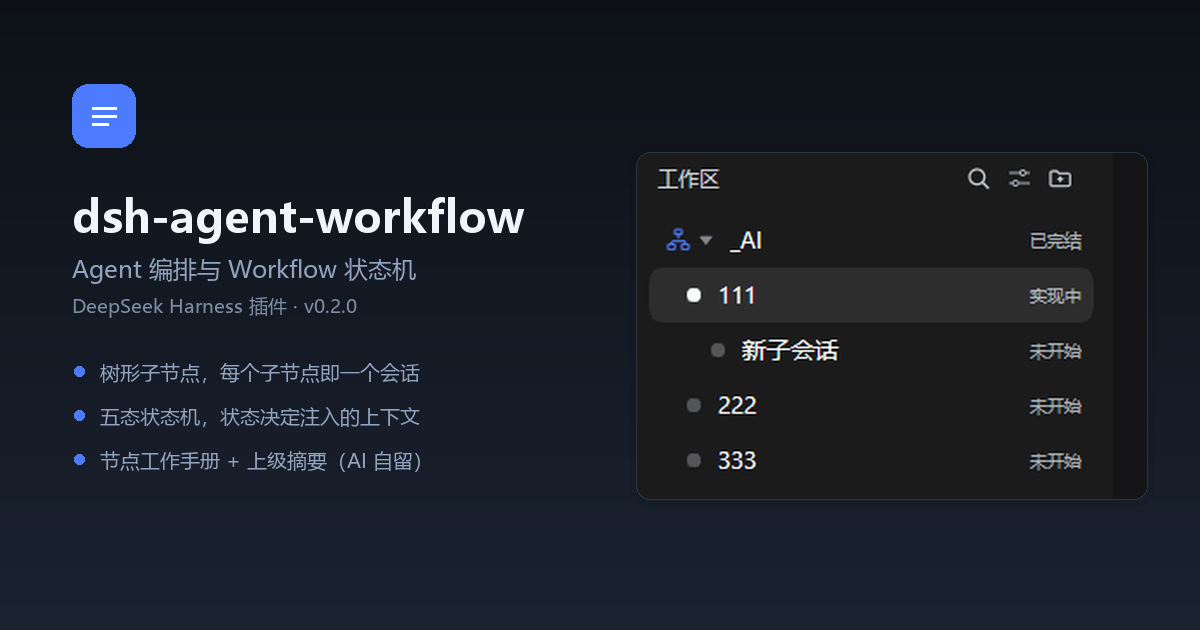
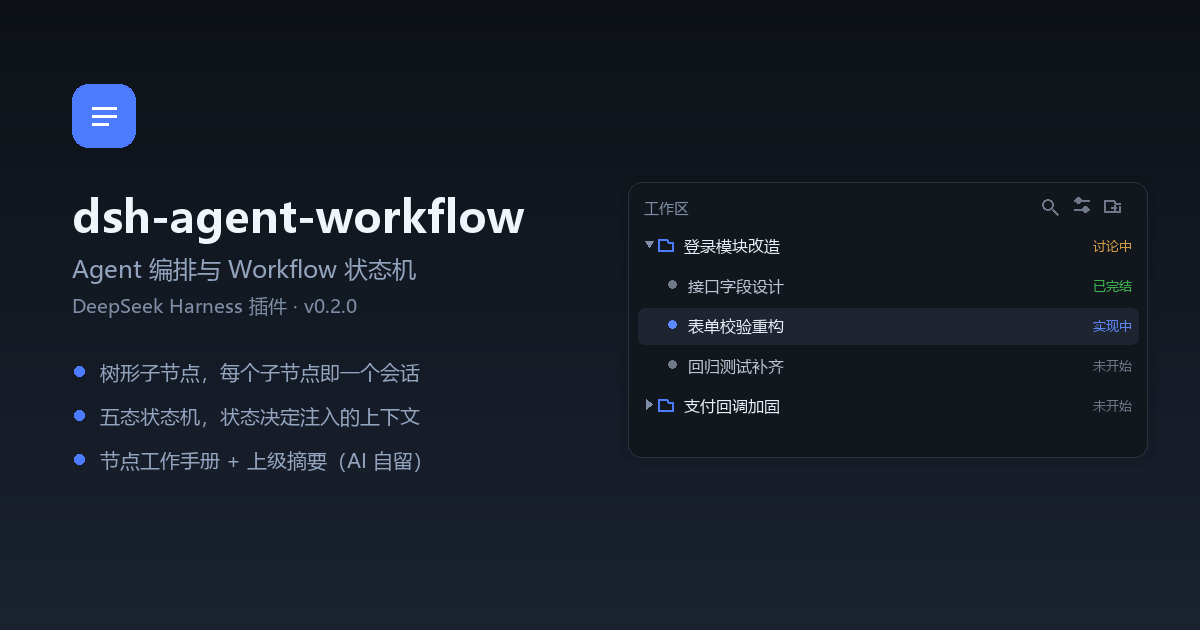
docs: 封面改用绘制的示例树（真实项目结构，不贴个人界面截图）
make-cover.py 改为用 Pillow 画侧栏树：登录模块改造/接口字段设计/表单校验重构/回归测试补齐/支付回调加固，状态与配色对齐 NODE_STATE_COLOR；避免暴露个人工作区名

diff --git a/scripts/make-cover.py b/scripts/make-cover.py
@@ -1,4 +1,7 @@
-"""生成插件封面：左侧标题+卖点，右侧嵌入真实界面截图（侧栏工作区树）。"""
+"""生成插件封面：左侧标题+卖点，右侧绘制一块与插件一致的侧栏树（不贴真实截图）。
+
+改文案/改树结构后直接重跑本脚本即可覆盖 assets/cover.png。
+"""
 
 from PIL import Image, ImageDraw, ImageFont
 
@@ -10,10 +13,23 @@ TEXT_PRIMARY = (240, 244, 251)
 TEXT_SECONDARY = (147, 164, 191)
 TEXT_MUTED = (127, 142, 166)
 
+# 面板配色（贴近插件实际界面）
+PANEL_BG = (18, 22, 29)
+PANEL_BORDER = (42, 49, 62)
+ROW_SELECTED = (30, 36, 48)
+ROW_TITLE = (232, 238, 247)
+ROW_CHILD_TITLE = (186, 196, 212)
+STATE_IDLE = (110, 120, 136)
+STATE_WARN = (214, 160, 72)
+STATE_BRAND = (95, 138, 255)
+STATE_SUCCESS = (63, 185, 80)
+
 FONT_REG = "C:/Windows/Fonts/msyh.ttc"
 FONT_BOLD = "C:/Windows/Fonts/msyhbd.ttc"
-SCREENSHOT = r"C:\Users\Administrator\.dsh\attachments\v1\objects\6f\6f135f23be41b03dfddc24814706bfddce9a4e30ab0a8bcf7c2bbb48f80dc01f"
 OUT = r"C:\Users\Administrator\Documents\deepseek-harness\default-workspace\dsh-agent-workflow\assets\cover.png"
+
+CARD_W, CARD_H = 520, 276
+CARD_X, CARD_Y = 628, 182
 
 
 def gradient_canvas():
@@ -21,21 +37,94 @@ def gradient_canvas():
     draw = ImageDraw.Draw(canvas)
     for y in range(H):
         t = y / (H - 1)
-        color = tuple(round(BG_TOP[i] + (BG_BOTTOM[i] - BG_TOP[i]) * t) for i in range(3))
-        draw.line([(0, y), (W, y)], fill=color)
+        draw.line([(0, y), (W, y)], fill=tuple(round(BG_TOP[i] + (BG_BOTTOM[i] - BG_TOP[i]) * t) for i in range(3)))
     return canvas
 
 
-def rounded_card(size, radius, fill, outline):
-    card = Image.new("RGBA", size, (0, 0, 0, 0))
-    draw = ImageDraw.Draw(card)
-    draw.rounded_rectangle([(0, 0), (size[0] - 1, size[1] - 1)], radius=radius, fill=fill, outline=outline, width=1)
-    return card
+def draw_search(d, x, y, color):
+    d.ellipse([(x, y), (x + 11, y + 11)], outline=color, width=2)
+    d.line([(x + 10, y + 10), (x + 15, y + 15)], fill=color, width=2)
+
+
+def draw_sliders(d, x, y, color):
+    for i, dy in enumerate((0, 9)):
+        d.line([(x, y + dy + 2), (x + 15, y + dy + 2)], fill=color, width=2)
+        cx = x + 4 if i == 0 else x + 11
+        d.ellipse([(cx - 3, y + dy - 1), (cx + 3, y + dy + 5)], fill=color)
+
+
+def draw_folder_plus(d, x, y, color):
+    d.line([(x, y + 3), (x + 9, y + 3), (x + 11, y + 6), (x + 16, y + 6)], fill=color, width=2)
+    d.line([(x, y + 3), (x, y + 14), (x + 16, y + 14), (x + 16, y + 9)], fill=color, width=2)
+    d.line([(x + 10, y + 8), (x + 10, y + 13)], fill=color, width=2)
+    d.line([(x + 7.5, y + 10.5), (x + 12.5, y + 10.5)], fill=color, width=2)
+
+
+def draw_tree_panel(canvas):
+    panel = Image.new("RGBA", (CARD_W, CARD_H), (0, 0, 0, 0))
+    d = ImageDraw.Draw(panel)
+    d.rounded_rectangle([(0, 0), (CARD_W - 1, CARD_H - 1)], radius=14, fill=PANEL_BG, outline=PANEL_BORDER, width=1)
+
+    header_font = ImageFont.truetype(FONT_REG, 15)
+    row_font = ImageFont.truetype(FONT_REG, 16)
+    state_font = ImageFont.truetype(FONT_REG, 13)
+
+    # 表头：工作区 + 右侧三个图标
+    d.text((16, 16), "工作区", font=header_font, fill=TEXT_MUTED)
+    draw_search(d, CARD_W - 106, 17, STATE_IDLE)
+    draw_sliders(d, CARD_W - 74, 16, STATE_IDLE)
+    draw_folder_plus(d, CARD_W - 44, 15, STATE_IDLE)
+
+    rows = [
+        # (层级, 标题, 状态文字, 颜色, 是否选中)
+        (0, "登录模块改造", "讨论中", STATE_WARN, False),
+        (1, "接口字段设计", "已完结", STATE_SUCCESS, False),
+        (1, "表单校验重构", "实现中", STATE_BRAND, True),
+        (1, "回归测试补齐", "未开始", STATE_IDLE, False),
+        (0, "支付回调加固", "未开始", STATE_IDLE, False),
+    ]
+
+    y = 52
+    for depth, title, state, color, selected in rows:
+        if selected:
+            d.rounded_rectangle([(10, y - 6), (CARD_W - 10, y + 30)], radius=7, fill=ROW_SELECTED)
+        text_x = 16 + depth * 22
+        if depth == 0:
+            # 箭头（第一个工作区展开、第二个折叠）+ 文件夹
+            if title == "支付回调加固":
+                d.polygon([(text_x + 2, y + 5), (text_x + 8, y + 10), (text_x + 2, y + 15)], fill=TEXT_MUTED)
+            else:
+                d.polygon([(text_x + 1, y + 7), (text_x + 9, y + 7), (text_x + 5, y + 13)], fill=TEXT_MUTED)
+            fx = text_x + 14
+            d.line([(fx, y + 5), (fx + 8, y + 5), (fx + 10, y + 8), (fx + 15, y + 8)], fill=ACCENT, width=2)
+            d.line([(fx, y + 5), (fx, y + 16), (fx + 15, y + 16), (fx + 15, y + 8)], fill=ACCENT, width=2)
+            d.text((text_x + 40, y + 1), title, font=row_font, fill=ROW_TITLE)
+        else:
+            d.ellipse([(text_x + 2, y + 6), (text_x + 10, y + 14)], fill=color if selected else STATE_IDLE)
+            d.text((text_x + 22, y + 1), title, font=row_font, fill=ROW_TITLE if selected else ROW_CHILD_TITLE)
+        # 右侧状态
+        tw = d.textlength(state, font=state_font)
+        d.text((CARD_W - 16 - tw, y + 3), state, font=state_font, fill=color)
+        y += 40
+
+    canvas.paste(panel, (CARD_X, CARD_Y), panel)
+
+    # 外阴影
+    shadow = Image.new("RGBA", (W, H), (0, 0, 0, 0))
+    sd = ImageDraw.Draw(shadow)
+    for i in range(8, 0, -1):
+        sd.rounded_rectangle(
+            [(CARD_X - i, CARD_Y - i), (CARD_X + CARD_W + i, CARD_Y + CARD_H + i)],
+            radius=14 + i,
+            outline=(0, 0, 0, 16),
+            width=1,
+        )
+    return Image.alpha_composite(canvas.convert("RGBA"), shadow)
 
 
 canvas = gradient_canvas()
 
-# 左上角品牌方块
+# 品牌方块
 brand = Image.new("RGBA", (64, 64), (0, 0, 0, 0))
 bd = ImageDraw.Draw(brand)
 bd.rounded_rectangle([(0, 0), (63, 63)], radius=16, fill=ACCENT)
@@ -65,39 +154,9 @@ for text in bullets:
     draw.text((100, y), text, font=bullet_font, fill=TEXT_SECONDARY)
     y += 44
 
-# 右侧：真实界面截图（侧栏工作区树），圆角裁切后贴进卡片
-shot = Image.open(SCREENSHOT).convert("RGB")
-crop = shot.crop((4, 262, 300, 470))  # 只看侧栏「工作区」树那一段
-card_w, card_h = 512, 348
-CARD_X, CARD_Y = 636, 152
-scale = max(card_w / crop.width, card_h / crop.height)
-scaled = crop.resize((round(crop.width * scale), round(crop.height * scale)), Image.LANCZOS)
-left = (scaled.width - card_w) // 2
-top = (scaled.height - card_h) // 2
-scaled = scaled.crop((left, top, left + card_w, top + card_h))
-
-mask = Image.new("L", (card_w, card_h), 0)
-ImageDraw.Draw(mask).rounded_rectangle([(0, 0), (card_w - 1, card_h - 1)], radius=14, fill=255)
-
-card = rounded_card((card_w, card_h), 14, (22, 27, 35, 255), (44, 52, 66, 255))
-inner = scaled.resize((card_w - 2, card_h - 2), Image.LANCZOS)
-inner_mask = Image.new("L", (card_w - 2, card_h - 2), 0)
-ImageDraw.Draw(inner_mask).rounded_rectangle([(0, 0), (card_w - 3, card_h - 3)], radius=13, fill=255)
-card.paste(inner, (1, 1), inner_mask)
-canvas.paste(card, (CARD_X, CARD_Y), card)
-
-# 卡片外阴影（简单几层半透明描边模拟）
-shadow = Image.new("RGBA", (W, H), (0, 0, 0, 0))
-sd = ImageDraw.Draw(shadow)
-for i in range(6, 0, -1):
-    sd.rounded_rectangle(
-        [(CARD_X - i, CARD_Y - i), (CARD_X + card_w + i, CARD_Y + card_h + i)],
-        radius=14 + i,
-        outline=(0, 0, 0, 18),
-        width=1,
-    )
-canvas = Image.alpha_composite(canvas.convert("RGBA"), shadow)
-
+canvas = draw_tree_panel(canvas)
 canvas.convert("RGB").save(OUT, "PNG")
 print("written", OUT, canvas.size)
+
+
 
